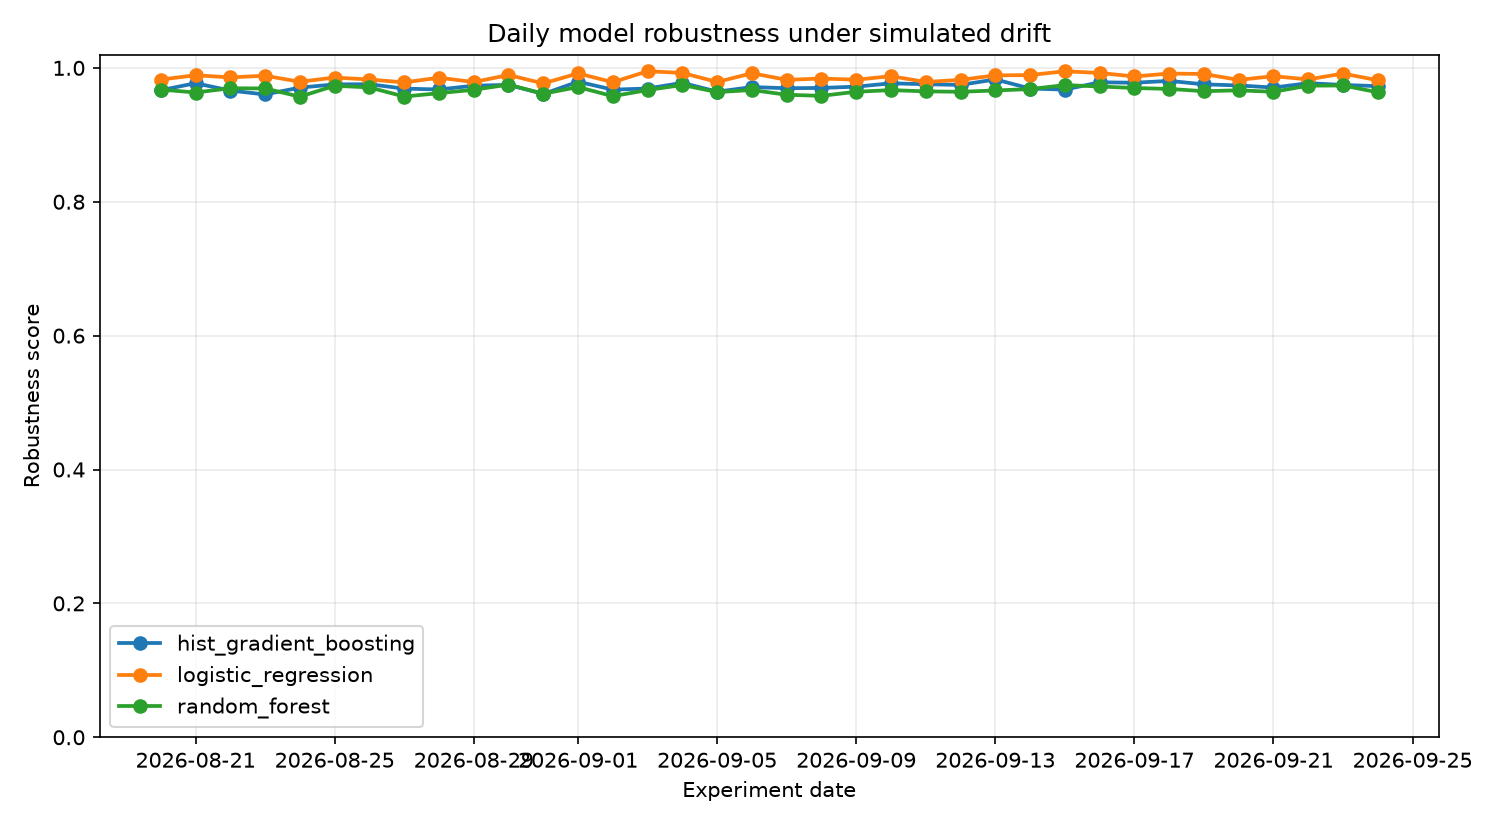
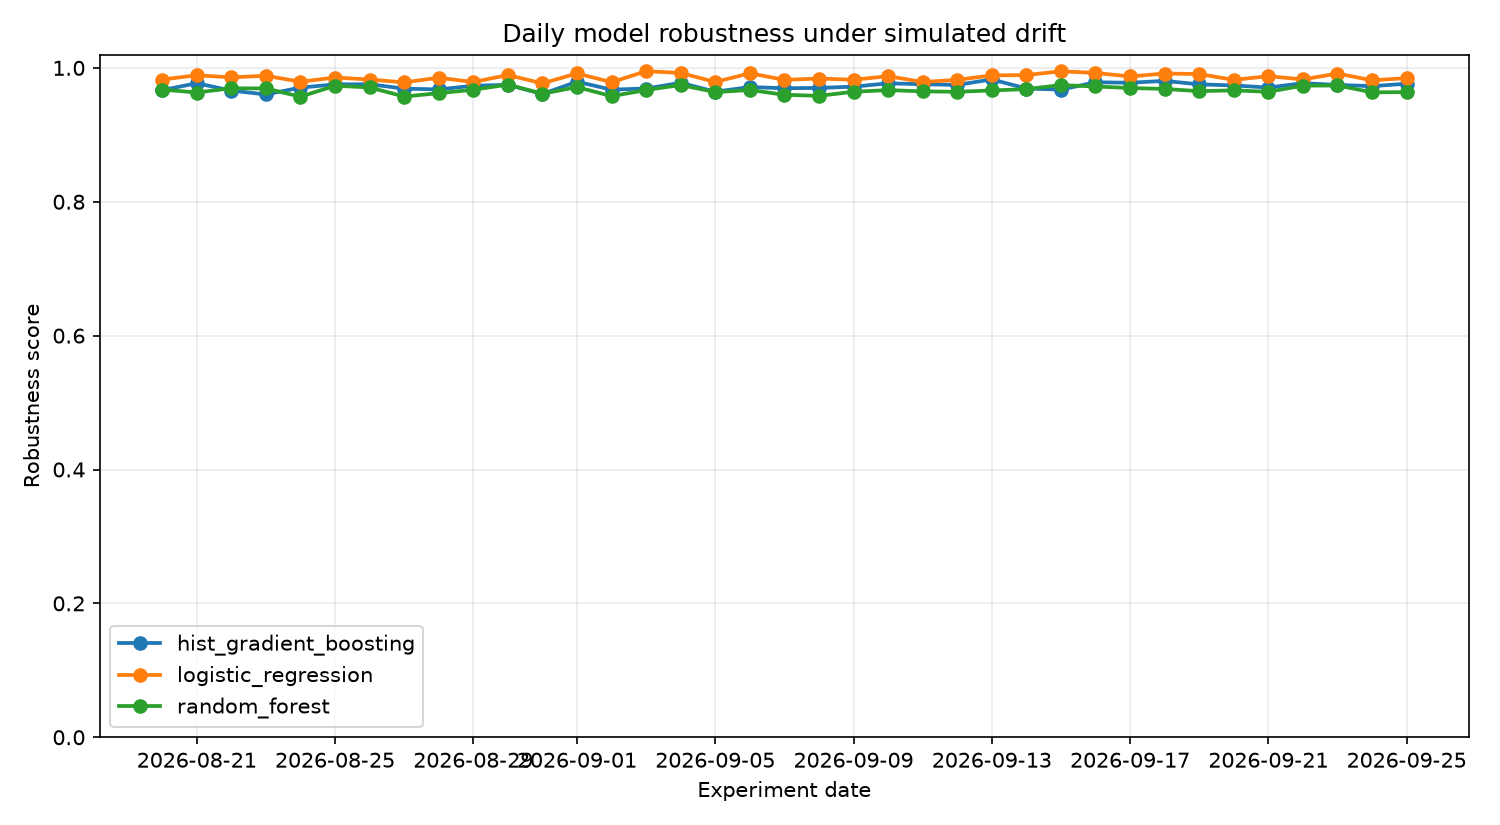
chore(observatory): daily drift benchmark 2026-09-25

diff --git a/reports/latest.md b/reports/latest.md
@@ -1,37 +1,37 @@
 # Latest DriftWatch Report
 
-**Experiment date:** 2026-09-24
+**Experiment date:** 2026-09-25
 
 ## Drift scenario
 
-- Drift strength: `0.456`
-- Scale factor: `1.046`
-- Noise ratio: `0.080`
+- Drift strength: `0.471`
+- Scale factor: `1.047`
+- Noise ratio: `0.081`
 - Mask ratio: `0.021`
-- Affected features: mean concavity, mean concave points, smoothness error, compactness error, worst texture, worst perimeter, worst compactness
+- Affected features: mean radius, mean compactness, compactness error, fractal dimension error, worst radius, worst texture, worst smoothness
 
 ## Model ranking
 
 | Rank | Model | Robustness | ROC-AUC | F1 | Balanced Acc. | Log Loss | Brier |
 |---:|---|---:|---:|---:|---:|---:|---:|
-| 1 | `logistic_regression` | 0.9814 | 0.9978 | 0.9714 | 0.9688 | 0.0983 | 0.0287 |
-| 2 | `hist_gradient_boosting` | 0.9727 | 0.9917 | 0.9619 | 0.9563 | 0.1287 | 0.0376 |
-| 3 | `random_forest` | 0.9635 | 0.9905 | 0.9474 | 0.9392 | 0.1610 | 0.0472 |
+| 1 | `logistic_regression` | 0.9847 | 0.9990 | 0.9763 | 0.9735 | 0.0876 | 0.0248 |
+| 2 | `hist_gradient_boosting` | 0.9763 | 0.9939 | 0.9668 | 0.9610 | 0.1201 | 0.0349 |
+| 3 | `random_forest` | 0.9637 | 0.9896 | 0.9469 | 0.9423 | 0.1583 | 0.0463 |
 
 ## Highest feature drift (PSI)
 
 | Feature | PSI |
 |---|---:|
-| mean concavity | 1.5603 |
-| mean concave points | 1.5588 |
-| compactness error | 1.4962 |
-| worst compactness | 0.5011 |
-| smoothness error | 0.4025 |
-| worst perimeter | 0.2628 |
-| fractal dimension error | 0.1481 |
-| texture error | 0.1479 |
+| fractal dimension error | 1.7462 |
+| compactness error | 1.4499 |
+| mean compactness | 0.4810 |
+| worst radius | 0.3429 |
+| mean radius | 0.3363 |
+| texture error | 0.1773 |
+| worst texture | 0.1605 |
+| worst smoothness | 0.1500 |
 
-**Mean PSI:** `0.2621`  
-**Max PSI:** `1.5603`
+**Mean PSI:** `0.2178`  
+**Max PSI:** `1.7462`
 
 _Generated automatically by the DriftWatch daily observatory pipeline._
